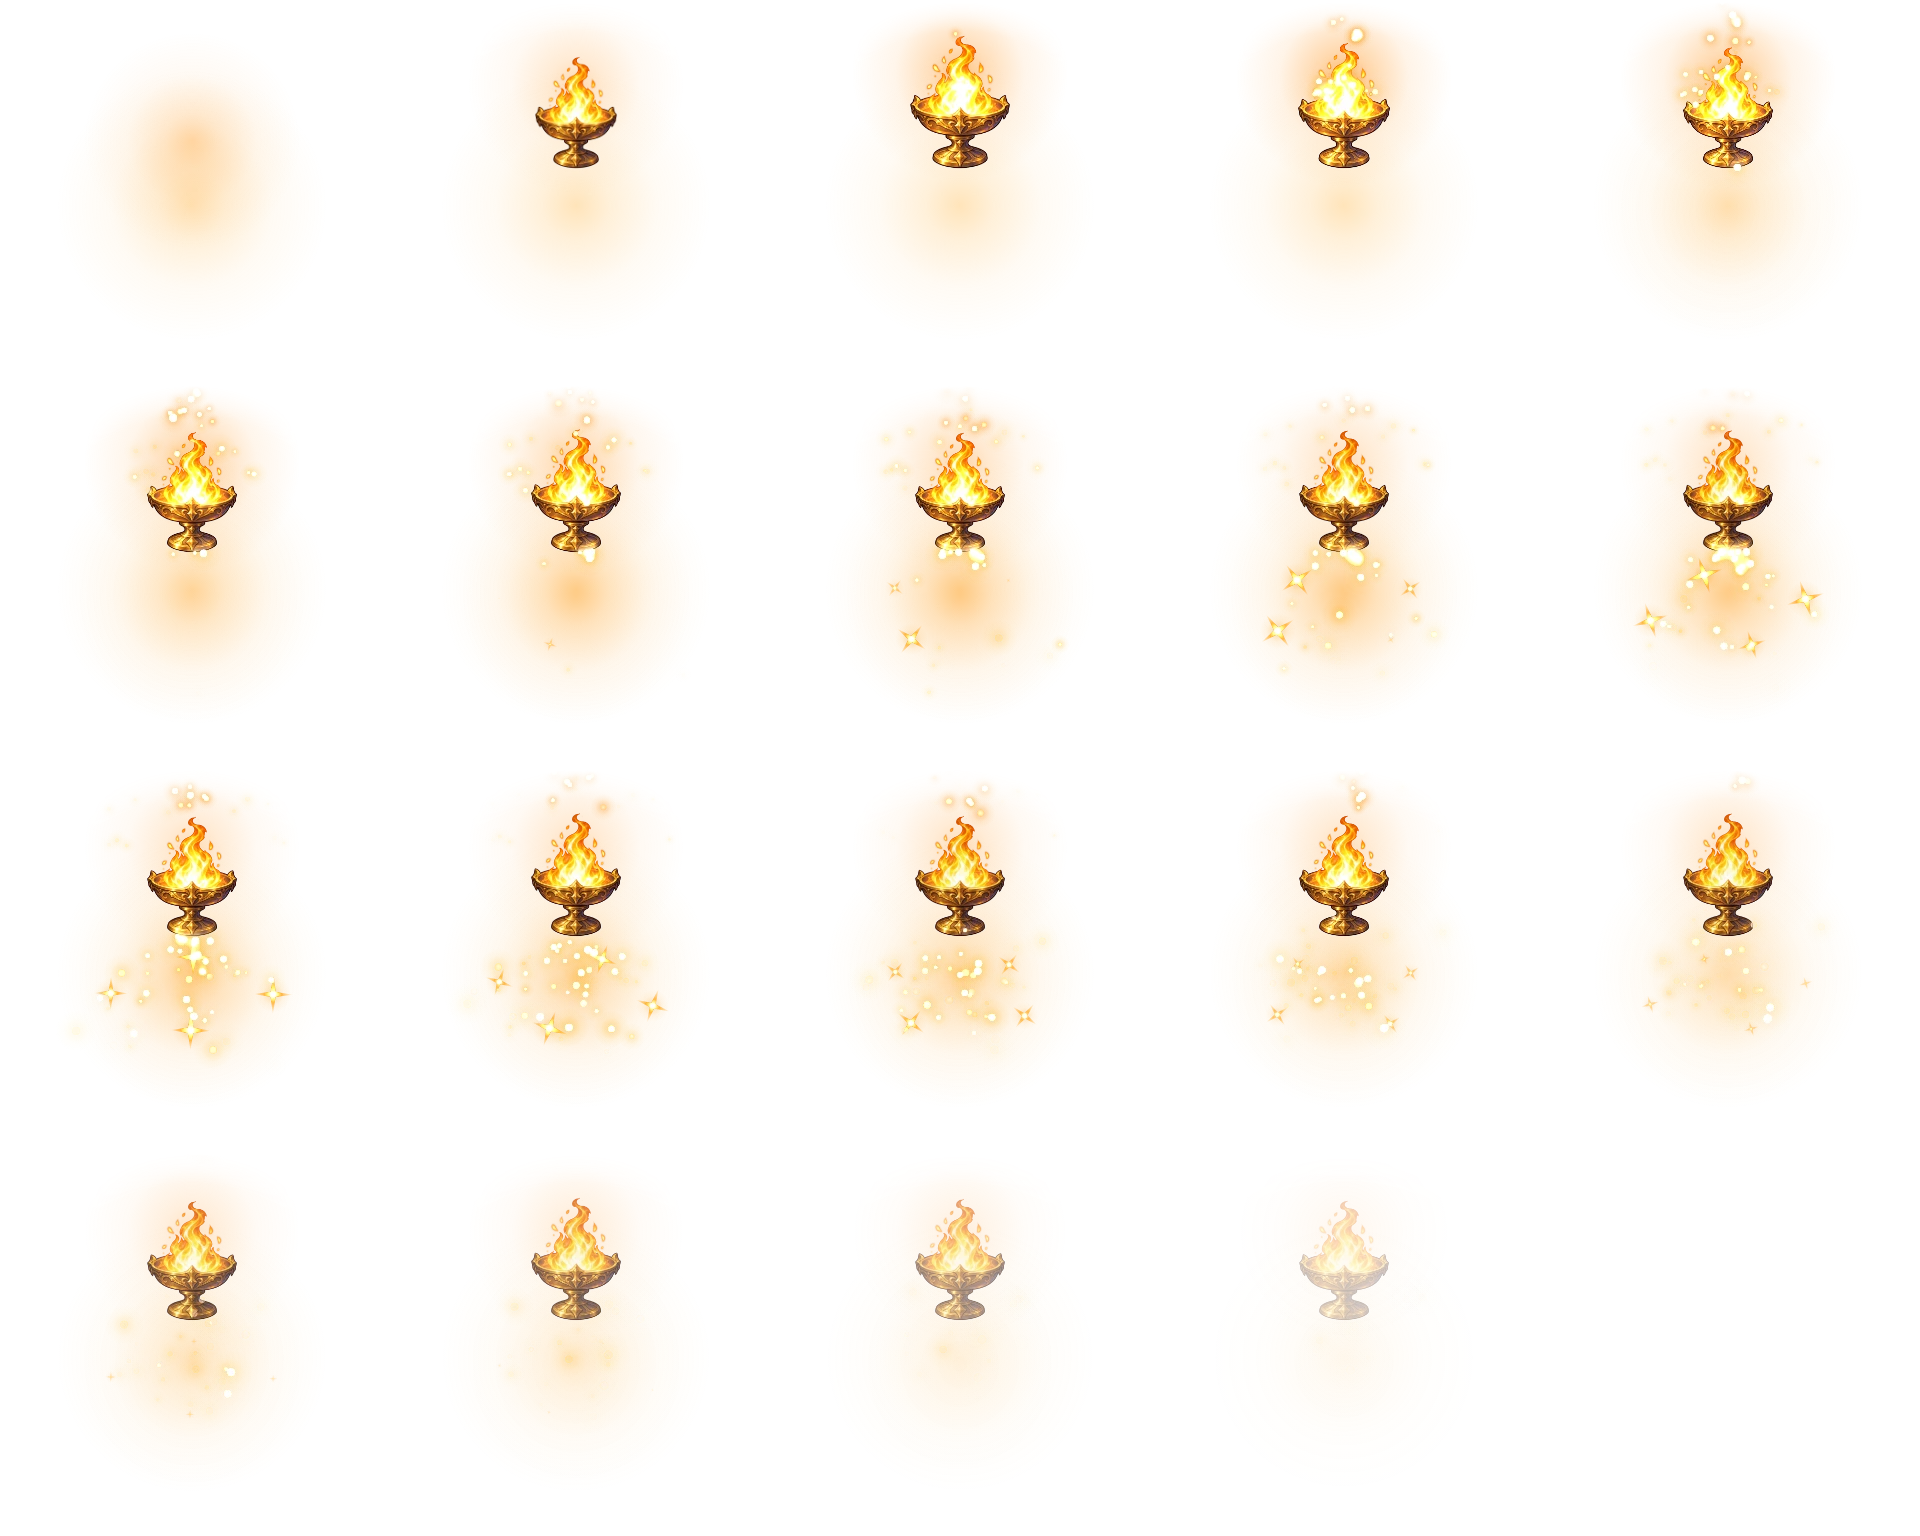
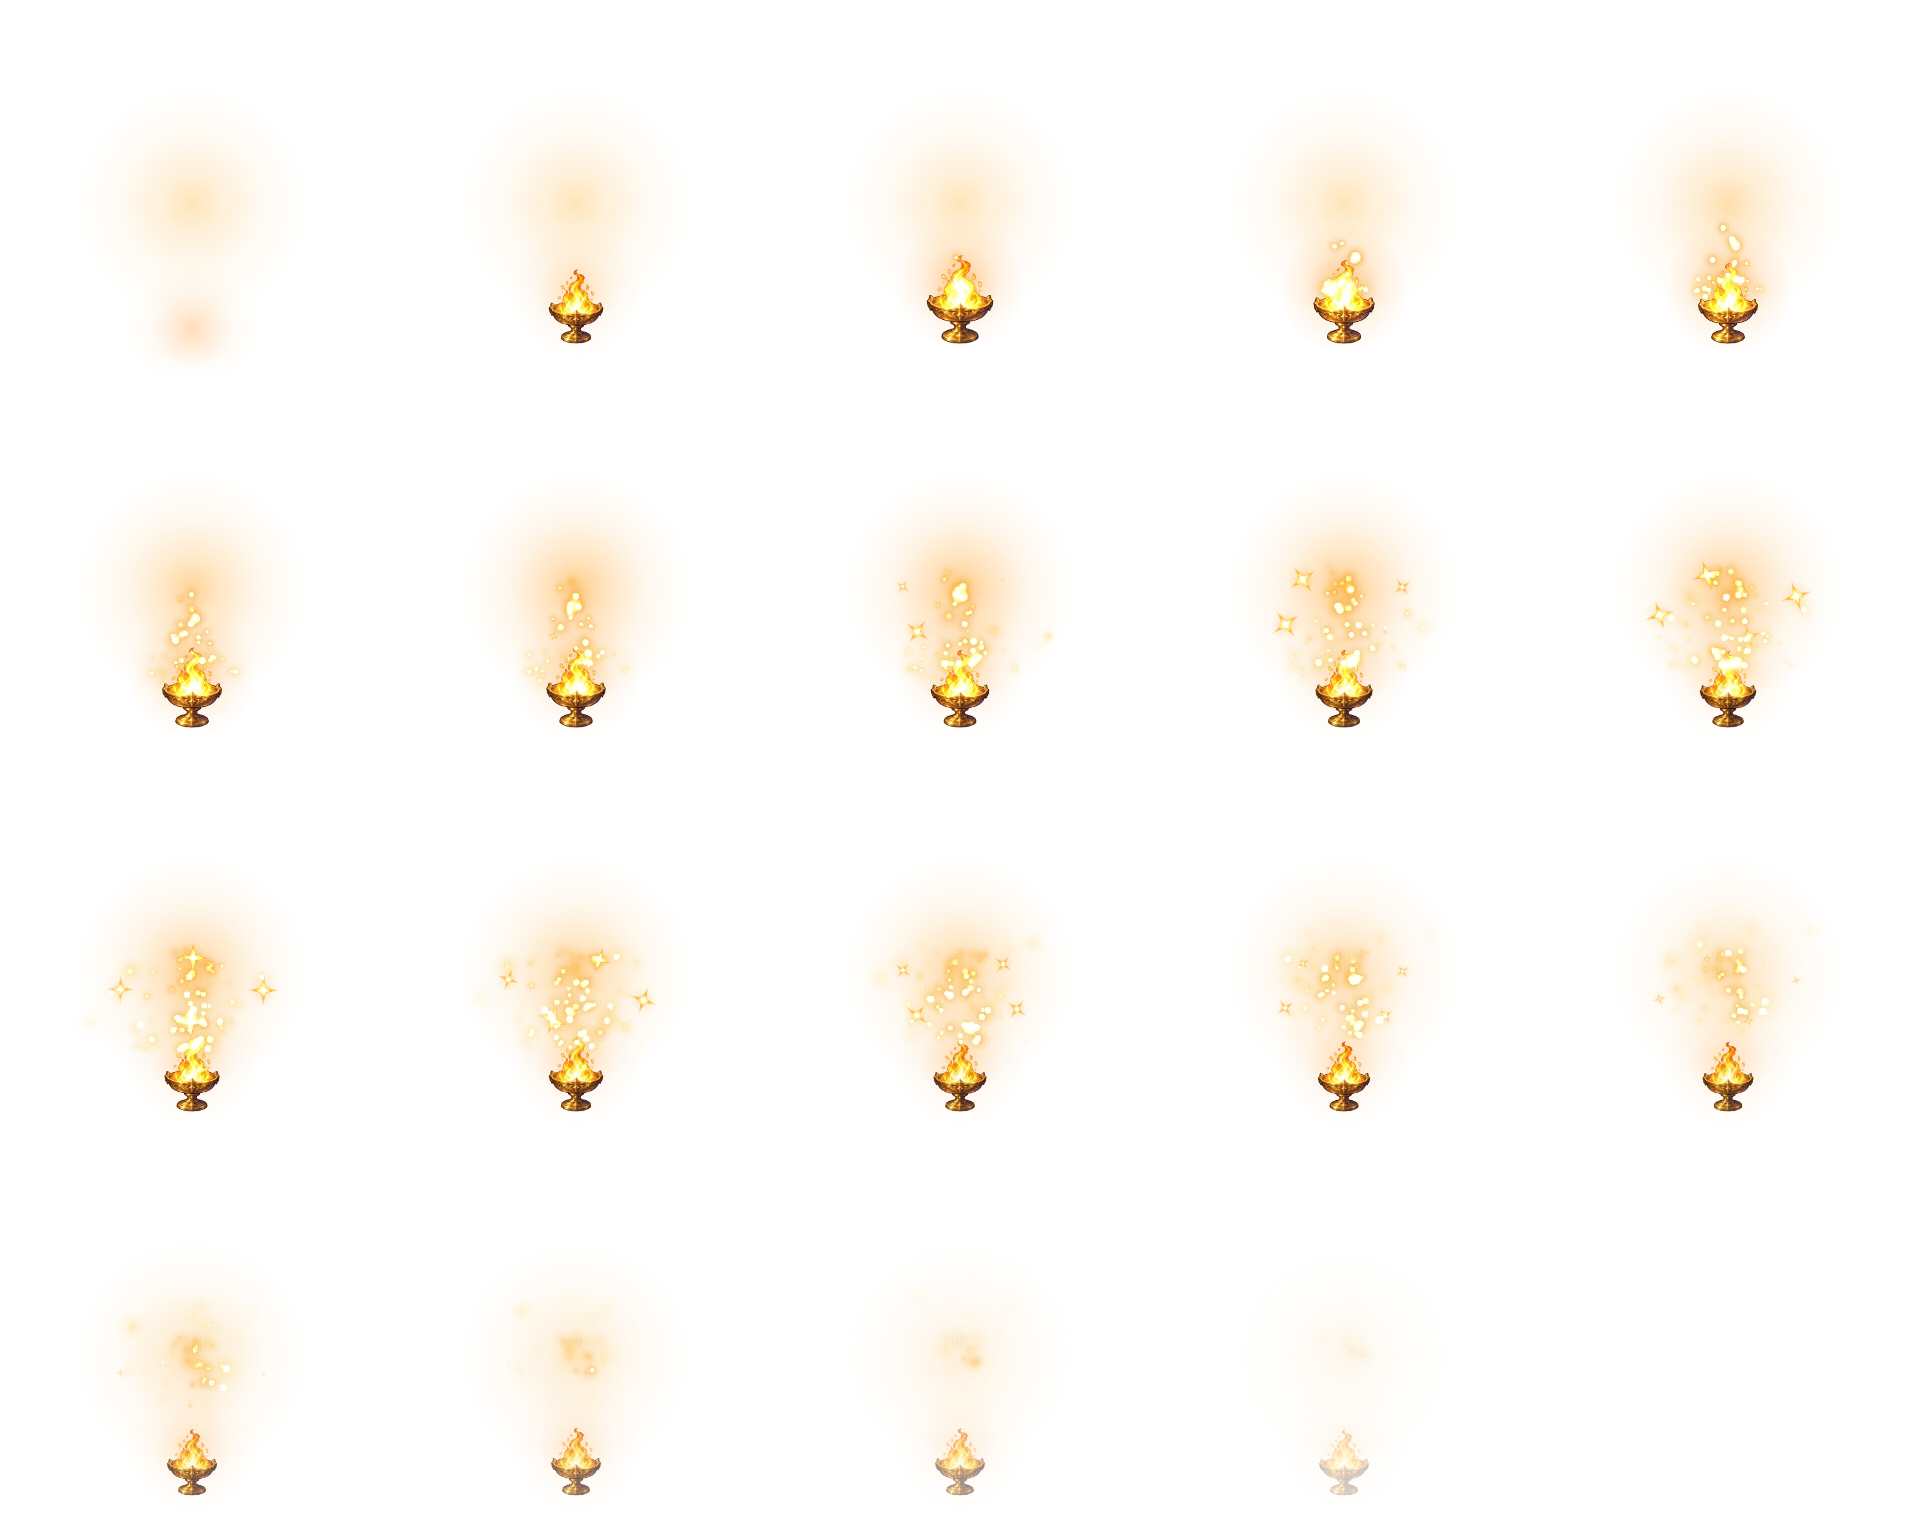
Paladin beacon: brazier sits at the cell's bottom vertex instead of the bottom ring flame
Lim: remove the swaying flame under the beacon target and move the
brazier-and-flame effect to that spot.
- paladin-beacon-loop: the bottom ring flame is replaced by a small
  flickering brazier painting at the bottom vertex (five flames remain).
- paladin-beacon cast: the brazier pops in at the same spot (foot 1.27r,
  logical 100) and settles to the loop's brazier size; embers and gold
  dust start from there instead of above the head.

diff --git a/src/battle/pxf.ts b/src/battle/pxf.ts
@@ -82,7 +82,7 @@ export const PXF = {
   'druid-quietwood': skill(24, 72),
   'druid-rebirth': skill(24, 98),
   'paladin-holy-light': skill(16, 80), // 기본 힐이라 가볍게 (Lim 2026-10-16 「너무 과하다」)
-  'paladin-beacon': skill(20, 88, { size: 384 }), // 봉화 그릇 · 불꽃 그림이 뭉개지지 않게 384px 프레임 (10-19 Lim)
+  'paladin-beacon': skill(20, 100, { size: 384 }), // 봉화 그릇 · 불꽃 그림이 뭉개지지 않게 384px 프레임 (10-19 Lim)
   'paladin-oath': skill(24, 90),
   'paladin-light-wave': skill(20, 88),
   'paladin-cleanse': skill(20, 92, { size: 384 }), // 손 그림이 뭉개지지 않게 384px 프레임 (10-19 Lim 「이미지에 신경써보자」)

diff --git a/src/battle/board.ts b/src/battle/board.ts
@@ -1274,7 +1274,7 @@ function putStand(key: string, artName: string, x: number, y: number, r: number,
   return true;
 }
 /** 봉화 대상 고리 반지름 (칸 반지름 배): 육각 꼭짓점 바로 바깥 (고리 위 불꽃 여섯이 꼭짓점 자리) */
-const BEACON_R = 1.08;
+const BEACON_R = 1.08; // 고리 위 불꽃 다섯이 위 · 옆 꼭짓점, 맨 아래 꼭짓점은 봉화를 걸 때 그릇 · 불꽃 이펙트 자리
 /** 비구름이 판에 나타난 시각 (ms, 비가 그치면 null): 나타날 때 톡 부푸는 연출 */
 let rainShownAt: number | null = null;
 /** 0–1 → 살짝 넘쳤다 돌아오는 진행 (톡 부풂) */

diff --git a/src/art/pxf/requests.md b/src/art/pxf/requests.md
@@ -61,7 +61,7 @@ Lim 「직업별 스킬별로 이펙트가 달라야 하는데 중복되는 게 
 | priest-hymn | 떠오르는 음표 | druid-quietwood | 떨어지는 잎 + 바닥 안개 |
 | priest-serenity | 터져 소용돌이치며 솟는 금빛 반짝이 가루 폭풍 (치유 강화판) | druid-rebirth | 초록 빛 기둥 + 금빛 씨앗 (기둥은 이것만) |
 |  |  | paladin-holy-light | 위에서 쏟아져 내리는 노란 빛 알갱이 (광선 없음, 2026-10-18 Lim) |
-| priest-relay | 포물선으로 날아와 튀는 꼬리 별 | paladin-beacon | 머리 위 봉화 그릇에 타오르는 불꽃 (Codex 그릇 + 불티) |
+| priest-relay | 포물선으로 날아와 튀는 꼬리 별 | paladin-beacon | 칸 아래 봉화 그릇에 타오르는 불꽃 (Codex 그릇 + 불티) |
 | paladin-oath | 도는 마름모 룬 + 오각 문양 (Codex 오각 서약 문장) | paladin-light-wave | 쏟아져 양옆으로 부서지는 파도 (Codex 파도 마루) |
 | paladin-cleanse | 해돋이 빛살 손바닥 (Codex 빛의 손 · 뽑혀 타는 어둠 연기) | paladin-sacrifice | 내려오는 사슬 + 붉은 맥동 (Codex 진홍 방패) |
 | paladin-sanctuary | 바닥에서 솟는 반구 막 (Codex 빛 돔) | paladin-hand-guard | 도는 팔각 봉인 문양 (Codex 판금 팔각 테) |
@@ -83,7 +83,7 @@ Lim 「직업별 스킬별로 이펙트가 달라야 하는데 중복되는 게 
 | shaman-rain | 머리 위 작은 비구름과 가는 비 (Codex 비구름 그림) | shaman-link | 가로로 출렁이는 영혼 끈 두 줄과 매듭 |
 | shaman-spring | 솟아 흩뿌리는 분수와 바닥 샘 (Codex 꼬인 물기둥 그림) | monk-palm | 톡 부풀었다 꺼지는 기 구슬과 위아래 박자 선 |
 | shaman-spring-loop | 판 위 샘 토템 루프: 숨 쉬는 물방울 보석과 보석 끝 작은 분수 | shaman-earth-loop | 판 위 대지 토템 루프: 왕관 둘레를 도는 돌 조각 셋과 호박빛 흙먼지 |
-| shaman-rain-loop | 판 위 비구름 토템 루프: 구름 배의 숨 쉬는 물빛과 그 밑으로 내리는 빗줄기 | paladin-beacon-loop | 봉화 대상 칸 둘레 루프: 숨 쉬는 금빛 고리 위 작은 불꽃 여섯 · 도는 혜성 · 날아오르는 불티 |
+| shaman-rain-loop | 판 위 비구름 토템 루프: 구름 배의 숨 쉬는 물빛과 그 밑으로 내리는 빗줄기 | paladin-beacon-loop | 봉화 대상 칸 둘레 루프: 숨 쉬는 금빛 고리 위 작은 불꽃 다섯 · 맨 아래 작은 봉화 그릇 · 도는 혜성 · 날아오르는 불티 |
 | monk-wrap | 몸을 비스듬히 감아 도는 안개 리본 | monk-mist | 옆으로 흘러가는 안개 뭉치 셋 |
 | monk-breath | 가운데에서 양옆으로 훅 퍼지는 안개 숨 | monk-clear | 위에서 아래로 쓸어내리는 세로 기 줄 셋 |
 | monk-soothe | 점점 납작해지는 가로 물결선 | monk-wind | 비스듬히 쓸어 올리며 끝이 말리는 바람 선과 꽃잎 |
